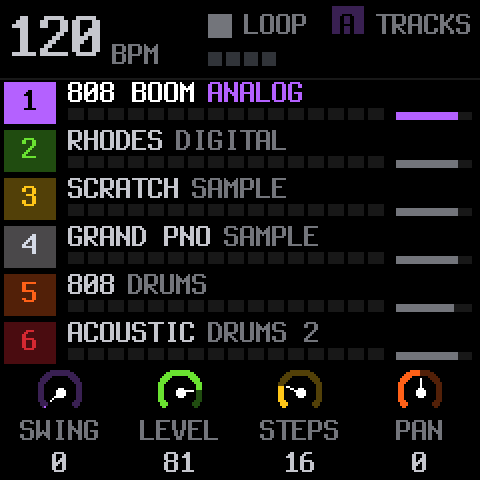
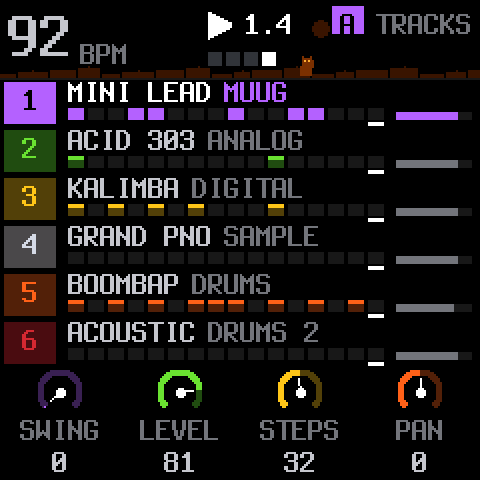
fix-23: Noche de Brujas en las pantallas (tejados con gatito y luna en la barra de arriba, telaraña con arañita en envolvente y filtro); capturas y tarjeta del Hub
Claude-Session: https://claude.ai/code/session_01GmRWd94BPN4VQ7SZUpFY9N

diff --git a/CHANGELOG.md b/CHANGELOG.md
@@ -2,6 +2,14 @@
 
 Versión **2.8-kitten** (sobre SLOOP 2.8). Cada parche (`fix-NN.patch`) se aplica después de `muug.patch`.
 
+## fix-23 · Noche de Brujas: tejados y telaraña en las pantallas
+
+- **Tejados** detrás de la barra de arriba de todas las pantallas: la de páginas, la grande de HOME (pistas, secuenciadores, batería) y la del menú HOME. Son tejados bajos con un gatito sentado en uno y la luna; van en el color más tenue del tema y se dibujan primero, así que no tapan nada: el texto, los íconos y las luces siguen encima, como antes.
+- **Telaraña** con una arañita colgada en la esquina de arriba a la derecha de las pantallas de **envolvente y filtro** (ENV, FLT ENV, filtro de MUUG y de ANALOG). Va detrás de la curva y no mueve nada.
+- Los secuenciadores (pistas, batería, pasos) quedan con sus cuadrados de siempre, sin telarañas ni patitas.
+- Siguen los cinco colores del tema (SLIME, BONE, WITCH, BLOOD y PUMPKIN) y los temas propios del editor web: los adornos usan los dos tonos más tenues.
+- Las capturas del README y la imagen de la tarjeta del Hub se rehicieron con el aspecto nuevo.
+
 ## fix-22 · Plantillas de patrones de batería en el editor web
 
 - El editor web tiene ahora una barra **Pattern templates** en la grilla de batería (batería 1 y 2): **12 estilos con 2 variaciones cada uno** (drum & bass, jungle, industrial, acid house, techno house, psy trance, hard techno, rock, heavy metal, doom metal, blues y jazz).

diff --git a/CARACTERISTICAS.md b/CARACTERISTICAS.md
@@ -109,6 +109,7 @@ Presupuesto compartido de 8 voces entre las pistas sintetizadoras; la batería t
 - ★ Instalación en un clic con `servir.py` (Chrome o Edge).
 - ★ Editor web con las seis pistas (las dos baterías), parámetros de MUUG y entrada de controlador MIDI.
 - ★ Plantillas de patrones de batería en el editor web: 12 estilos × 2 variaciones (drum & bass, jungle, industrial, acid house, techno house, psy trance, hard techno, rock, heavy metal, doom metal, blues, jazz), con largo, división, swing, tempo y kit.
+- ★ Estética Noche de Brujas: tejados con gatito y luna detrás de la barra de arriba y telaraña con arañita en las pantallas de envolvente y filtro; en los colores del tema.
 - Simulador en el navegador (sin hardware).
 - Actualización segura: verificación SHA-256 y CRC, rescate USB (OCT− al encender).
 

diff --git a/README.md b/README.md
@@ -83,7 +83,7 @@ Online, sin instalar nada: [el FM-1 en el navegador](https://blackkittendevices.
 
 | Archivo | Para qué sirve |
 | --- | --- |
-| `muug.patch` y `fix-01.patch` … `fix-22.patch` | Todo lo que Kitten Synths agrega a SLOOP 2.8, en orden. Se aplican sobre un commit fijo de SLOOP. |
+| `muug.patch` y `fix-01.patch` … `fix-23.patch` | Todo lo que Kitten Synths agrega a SLOOP 2.8, en orden. Se aplican sobre un commit fijo de SLOOP. |
 | `.github/workflows/build.yml` | Baja SLOOP, aplica los parches, corre los tests y compila con la cadena de herramientas de JieLi. |
 | `servir.py` | Sirve el instalador y el simulador en tu computadora. |
 | `splashes y logos/` | Las imágenes del gatito (bienvenida, ojos abiertos y cerrados). |

diff --git a/README.en.md b/README.en.md
@@ -69,7 +69,7 @@ Kitten Synths meets the requirements of [The FM-1 Firmware Hub](https://thefirmw
 
 | File | What it is for |
 | --- | --- |
-| `muug.patch` and `fix-01.patch` … `fix-22.patch` | Everything Kitten Synths adds to SLOOP 2.8, in order, applied to a pinned SLOOP commit. |
+| `muug.patch` and `fix-01.patch` … `fix-23.patch` | Everything Kitten Synths adds to SLOOP 2.8, in order, applied to a pinned SLOOP commit. |
 | `.github/workflows/build.yml` | Fetches SLOOP, applies the patches, runs the tests, builds with JieLi's toolchain and publishes the site. |
 | `servir.py` | Serves the installer and the simulator on your computer. |
 | `splashes y logos/` | The kitten pictures (welcome, eyes open and closed). |

diff --git a/MANUAL.md b/MANUAL.md
@@ -371,6 +371,8 @@ La parte LITE es una pista sintetizadora más, gris, que se elige con ALGORITHM 
 
 ## 13. Menú HOME, colores y luces
 
+★ **Estética:** detrás de la barra de arriba hay tejados con un gatito y la luna, y las pantallas de envolvente y filtro llevan una telaraña con una arañita en la esquina. Son del color más tenue del tema, así que cambian con COLOR.
+
 Mantené **HOME** para abrir el menú. SELECT pasa de sección, KNOB 1–3 cambian las filas, PRESETS mueve el cursor, OCT+ cambia o abre, OCT− cierra.
 
 | Ítem | Opciones |

diff --git a/MANUAL.en.md b/MANUAL.en.md
@@ -371,6 +371,8 @@ The LITE part is one more synth track, grey, chosen with ALGORITHM between track
 
 ## 13. HOME menu, colours and lights
 
+★ **Look:** behind the top bar there are rooftops with a little cat and the moon, and the envelope and filter screens carry a cobweb with a small spider in the corner. They use the theme's faintest colour, so they follow COLOR.
+
 Hold **HOME** to open the menu. SELECT moves between sections, KNOB 1–3 change the rows, PRESETS moves the cursor, OCT+ changes or opens, OCT− closes.
 
 | Item | Options |
